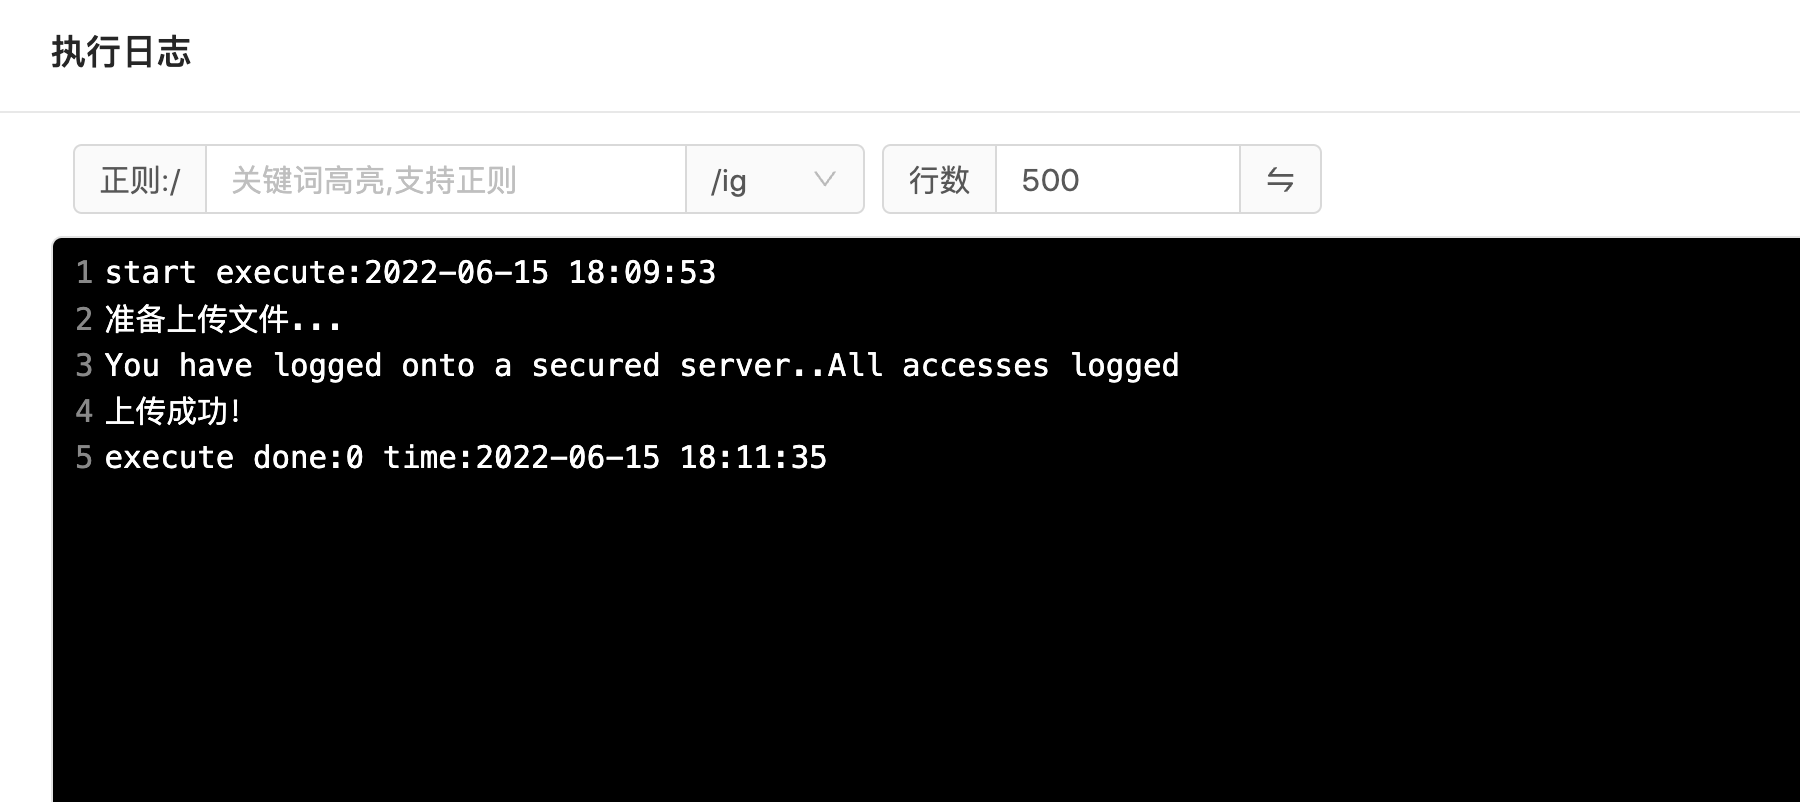
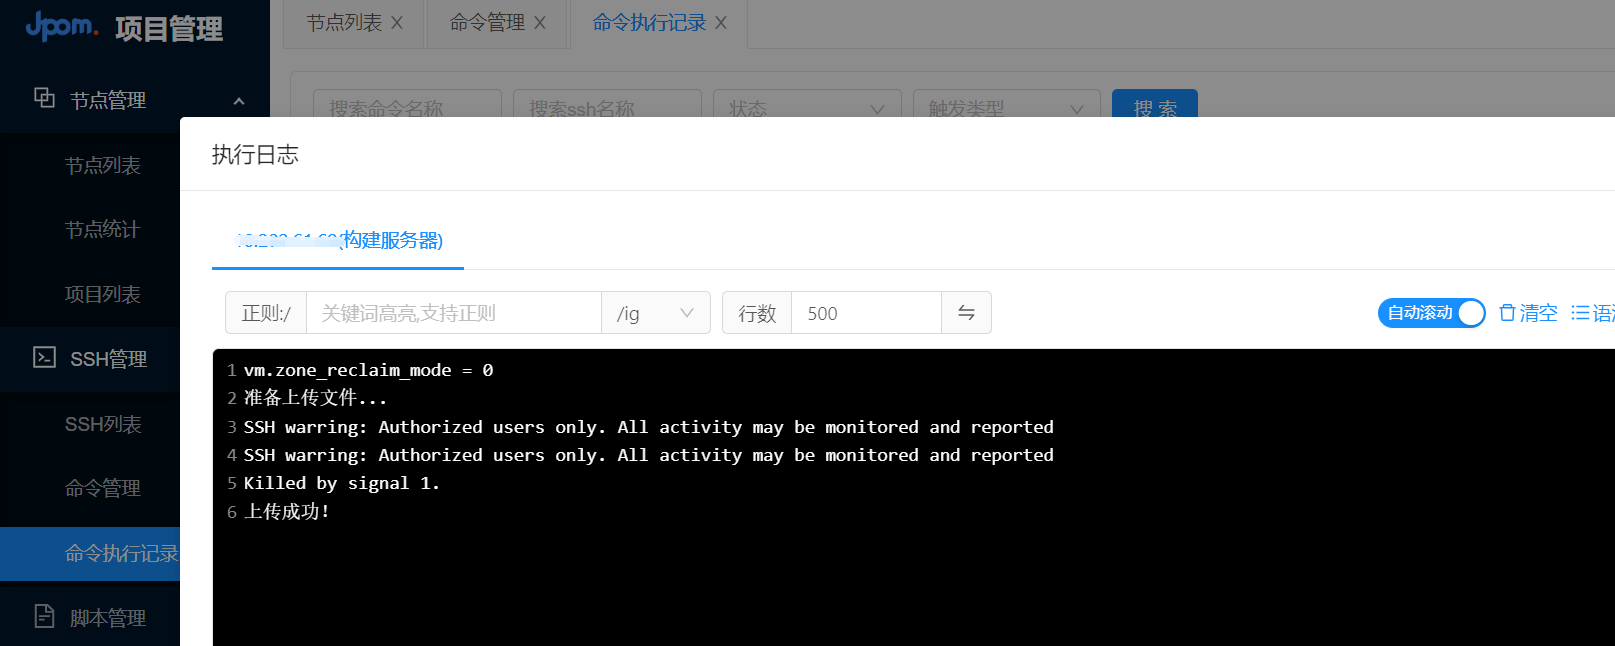
update docs pages

diff --git a/docs/文档/02.实践案例/0090.simple-solution-01.md b/docs/文档/02.实践案例/0090.simple-solution-01.md
@@ -184,7 +184,7 @@ echo "上传成功！"
 
 #### 4、测试脚本是否能顺利执行
 
-![image-20220616144132593](/images/simple-solution-01/pic/image-20220616144132593.png)
+![image-20220616144132593](/images/simple-solution-01/pic/image-20220615231441921.png)
 
 ### 2、在脚本管理-脚本列表添加脚本
 